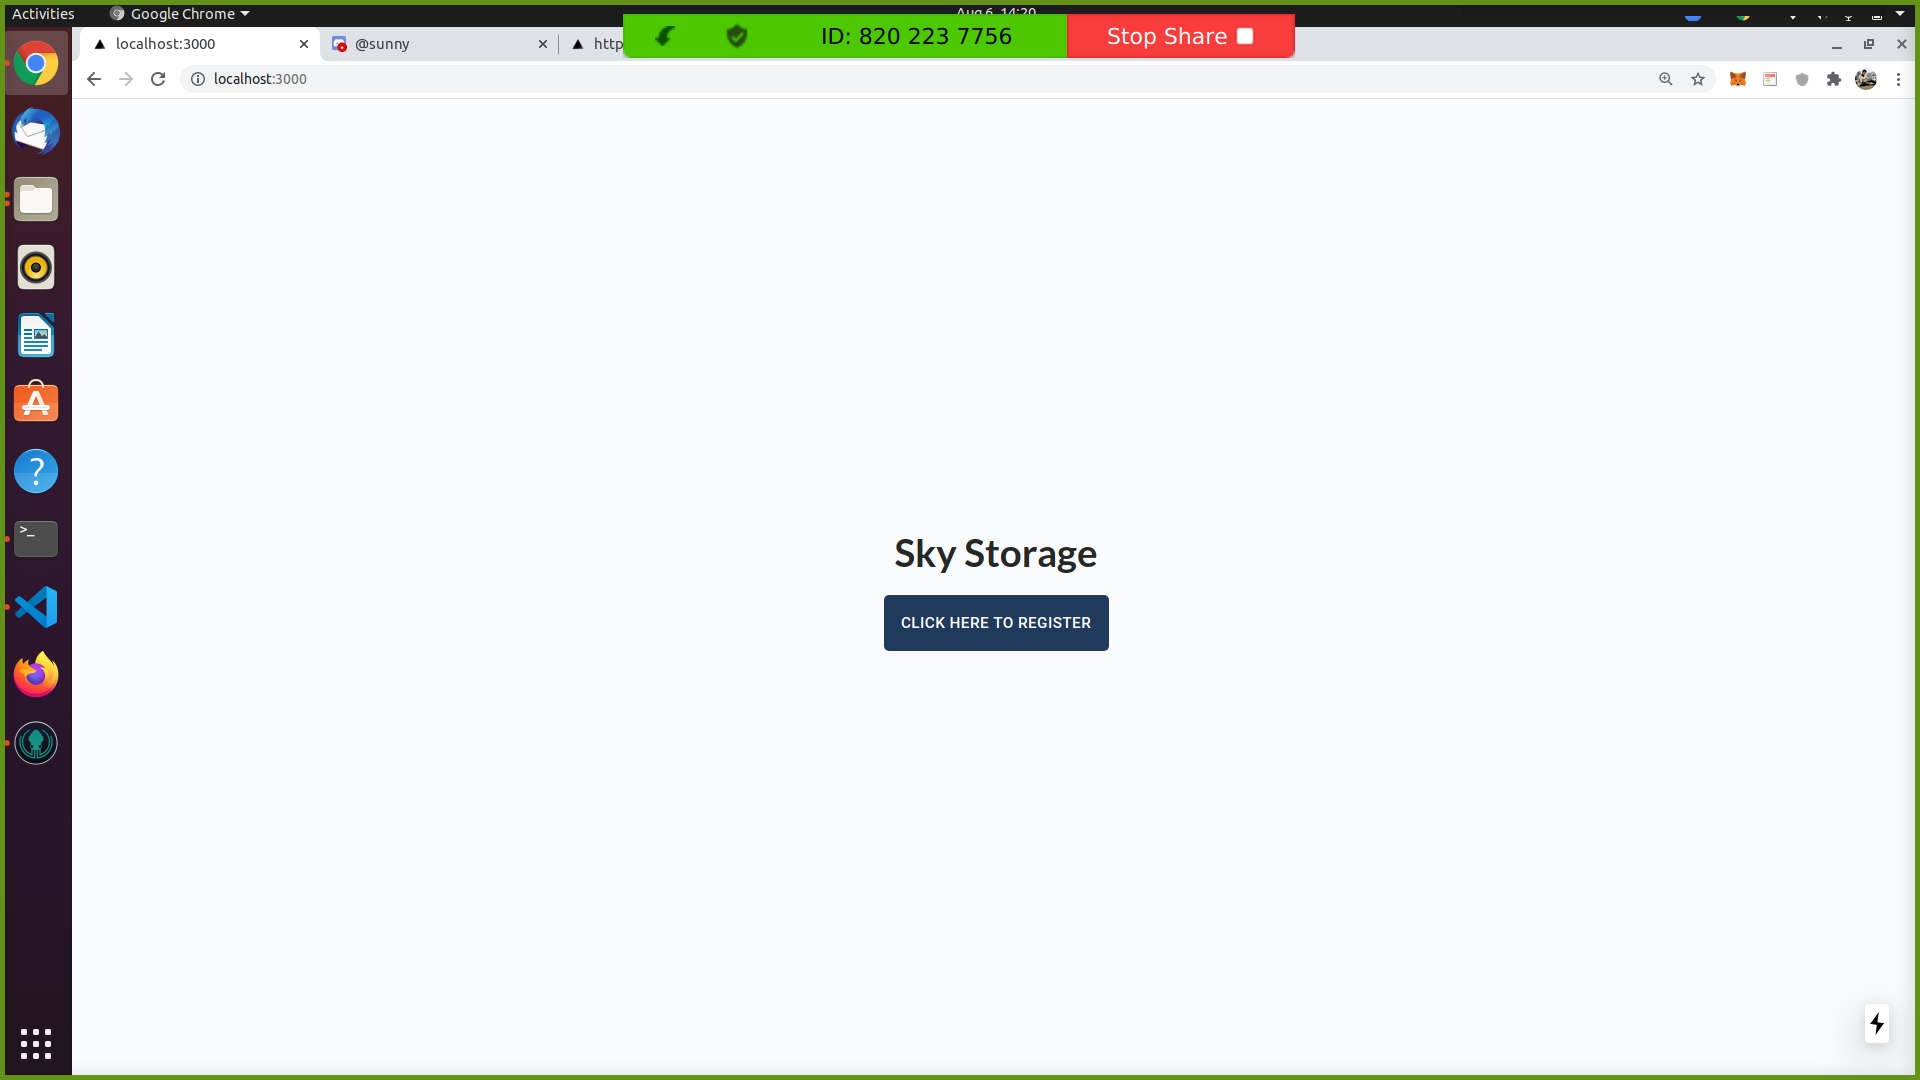
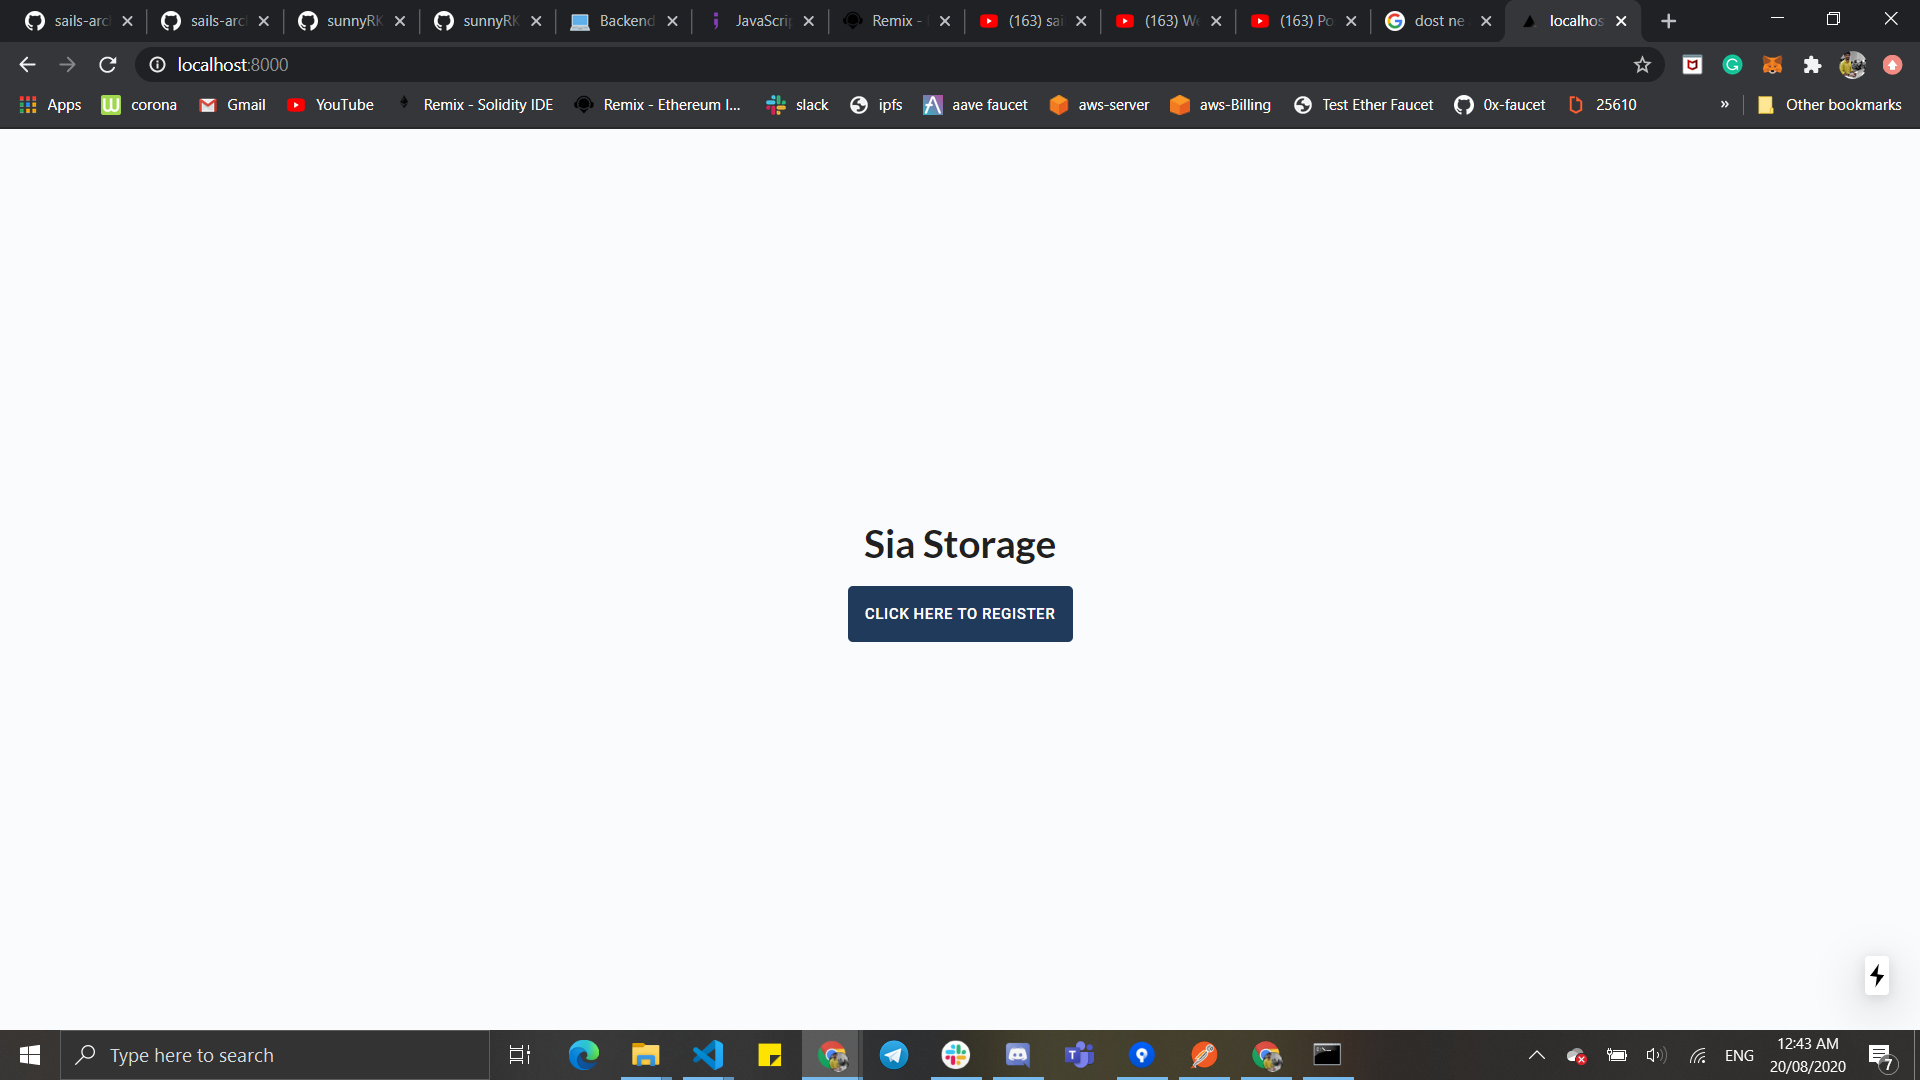
Initial commit

Changed region(s): [[0.0, 0.0, 1.0, 1.0], [0.4375, 0.4889, 0.5938, 0.6111]]

diff --git a/src/modules/components/landing/Landing.js b/src/modules/components/landing/Landing.js
@@ -10,7 +10,7 @@ const Landing = ({ onRegisterClick, landingLoading }) => (
     className="full-screen"
   >
     <div className="landing">
-      <h2 className="app-name">Sky Storage</h2>
+      <h2 className="app-name">Sia Storage</h2>
       <Button
         type="submit"
         primary

diff --git a/README.md b/README.md
@@ -1,73 +1,63 @@
-# SkyStorage - (Filecoin)
+# SiaStorage - (Sia)
 
-SkyStorage is a decentralized video player. Where user can upload video on web3 platforms like Filecoin and IPFS.   
-Platform will give ability to users for change the storage config of individual video file(like change in, hot and cold storage).    
-Skystorage will retrieve only uploaded videos by login users. And give accessibilty on this video files as a video player on the platform.  
+SiaStorage is a video player. Where user can upload video on web3 platforms like Sia Storage.   
+SiaStorage will retrieve only uploaded videos by login users. And give accessibilty on this video files as a video player on the platform.  
 Even, The platform storing the video file details on ethereum blockchain.  
-SkyStorage is hosted on fleek.co hosting service.
-
-
-## Video Demo
-
-    https://youtu.be/BAJufquxMS4
-[![HackFS](HackFS2.png)](https://youtu.be/BAJufquxMS4 "SkyStorage")
 
 ## Screenhots
 
-### 1. SkyStorage Landing Page with register 
+### 1. SiaStorage Landing Page with register 
 ![Screenshot](screenshots/screenshot1.png)
 
 ### 2. Use will register here
-    - Once user press to register, Pltform create new filecoin token and filecoin address for new user metamask address.
-    - Filecoin token will map to that metamask address and no need to register again for that metamask address
+    - Once user press to register, Platform register with his/her metamask address.
 ![Screenshot](screenshots/screenshot2.png)
 
 ### 3. Dashboard
-    - Once user register, user can see dashboard with empty video list
-    - Right side you can see metamask address and filecoin address details and Add file features to filecoin or IPFS.
+    Successfully registered
 ![Screenshot](screenshots/screenshot3.png)
 
 ### 4. After press Add File,
-    - After selecting file you can see Storage config.
-    - User can modify changes. Like where exactly user wants to store video file(Filecoin, IPFS or BOTH)
+
+    - Once user register, user can see dashboard with empty video list
+    - Right side you can see metamask address and Add file features to Sia.
 ![Screenshot](screenshots/screenshot4.png)
 
-### 5. After selecting Both,
-    - After selecting Both(IPFS and Filecoin), You can see config change as per selecting.
-    - Then user will press make storage deal.
-    - Once storage deal confirm, platform will store video file details into Ethereum samrt contract to retrirve data in dashboard. 
+### 5. Add file To sia,
+
+    - Select file from computer
+    - And Upload
 ![Screenshot](screenshots/screenshot5.png)
 
-### 6. Dashboard with video Gridview
+### 6. After upload you can see metamask transaction to upload detais on ethereum smart contract
+
+    - ETH+Sia
+![Screenshot](screenshots/screenshot7.png)
+
+### 7. Video Successfully uploaded
 ![Screenshot](screenshots/screenshot6.png)
+
+### 8. Dashboard with video Gridview and download feature
+![Screenshot](screenshots/screenshot8.png)
+
+### 9. Video full view
+![Screenshot](screenshots/screenshot9.png)
 
 ## How to run and use for devs?
 
-```note:  You must have Linux system to setup```
-
-- Run localnet on your on machine  
-1). `Open New Terminal`  
-1). `git clone git@github.com:textileio/powergate.git`  
-2). `cd powergate/docker`  
-3). `BIGSECTORS=true make localnet`  
-
 - Run Dapp on localhost  
-1). clone repo `https://github.com/sunnyRK/SkyStorage.git`  
-2). `cd SkyStorage`  
+1). clone repo `https://github.com/sunnyRK/SiaStorage.git`  
+2). `cd SiaStorage`  
 3). Install dependencies for dapp `npm install`   
 4).Run Dapp `node server.js`  
 5). Go to `http://localhost:8000`    
 
-## Presentation
-    https://docs.google.com/presentation/d/1aCKVuKYpBhNw1Ah-g9vnWXThxId7SiiUubndd2emFhA/edit?usp=sharing
 
 
 ## Tech Stack We are using
 
-  - Filecoin-IPFS
-  - Textile Powergate - To interact with Filecoin and IPFS
-  - Ethereum (ETH+IPFS concept to save file details)
-  - Fleek.Co to Host Website
+  - Sia Storage
+  - Ethereum (ETH+Sia concept to save file details)
   - Next.Js and Material UI For Frontend
 
 ## Contacts
